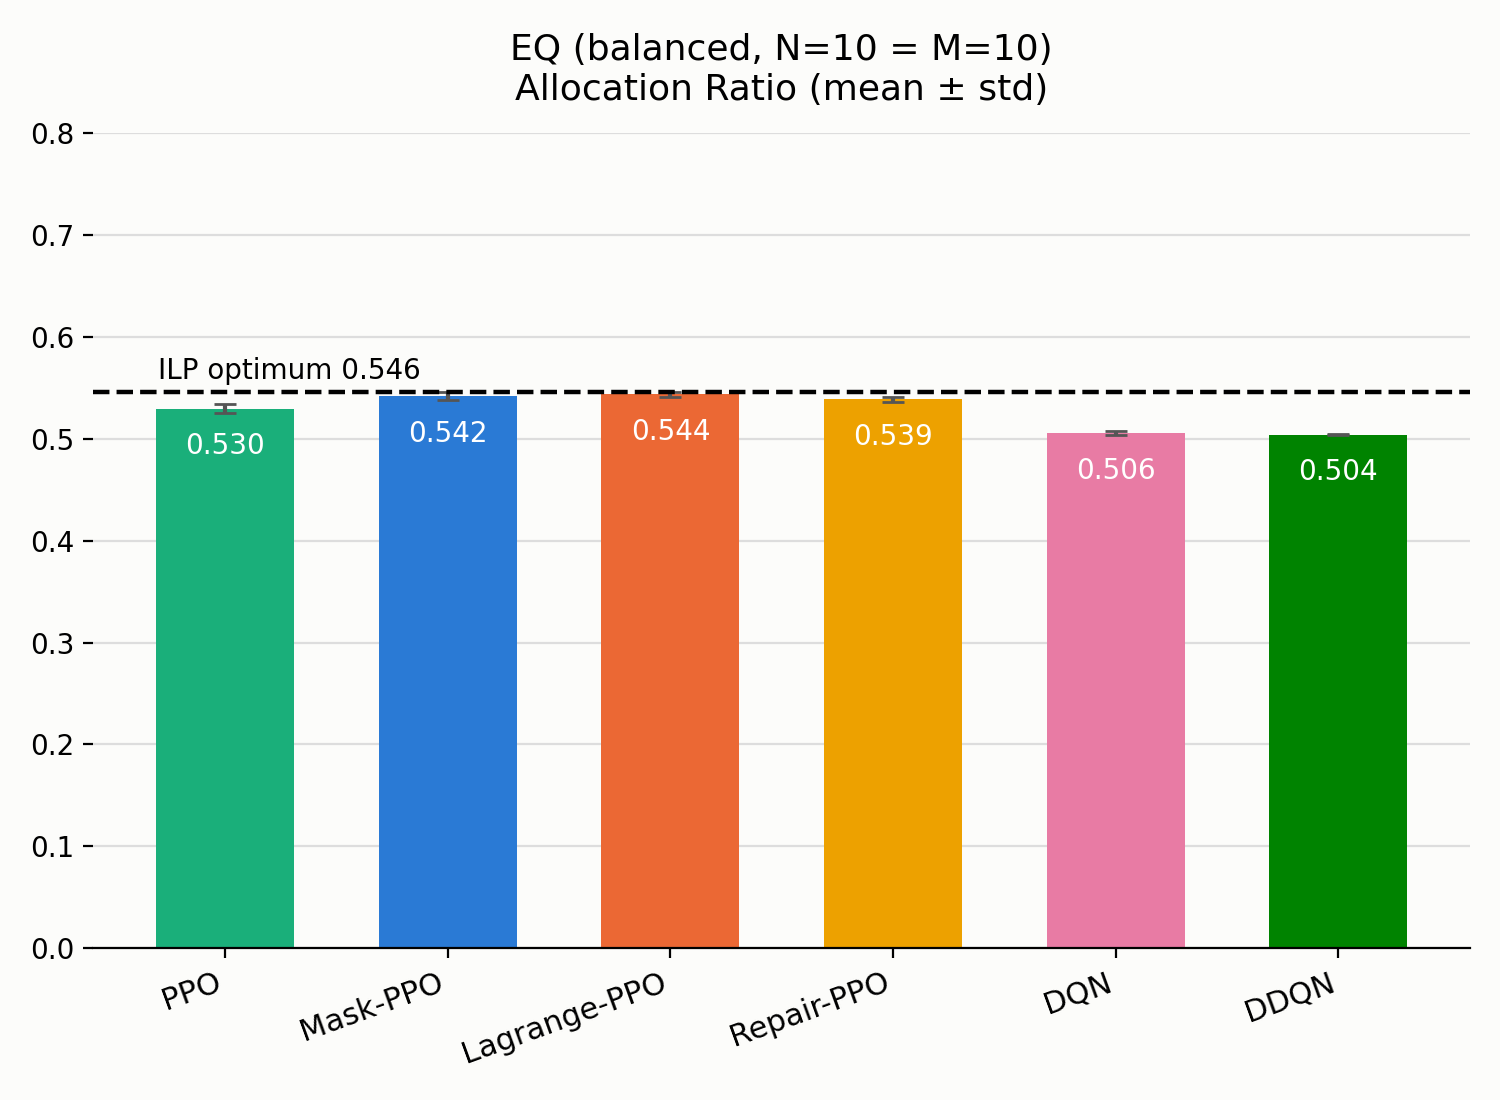
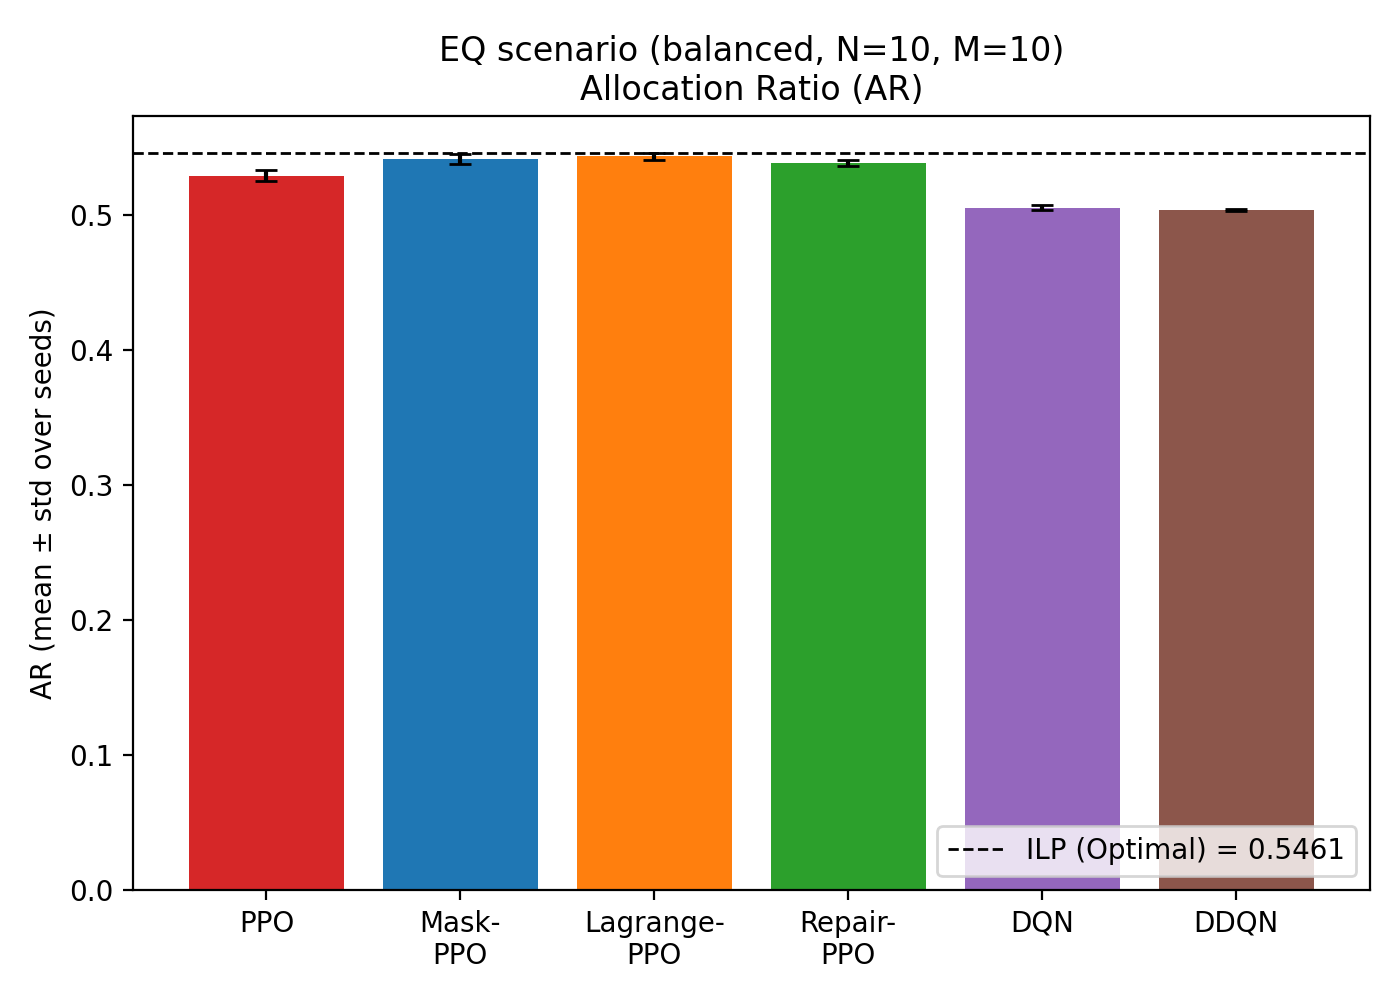
update

diff --git a/paper_contents/v4.2.0/tools/make_figs.py b/paper_contents/v4.2.0/tools/make_figs.py
@@ -1,8 +1,11 @@
 """v4.2.0 figures from ../final_summary_data.json -> ../figs/
 
-  {ar,success,violation}_{lt,eq,gt}.png   one metric per figure
-  timing_{lt,eq,gt}.png                   ILP vs RL time per test instance
-  summary_table.png, timing_table.png
+Visual style follows paper_contents/campaign_5seed_figs/ (matplotlib defaults,
+tab10 colour per algorithm, black capped error bars, percent axes), one metric
+per figure:
+
+  ar_{lt,eq,gt}.png  success_{lt,eq,gt}.png  violation_{lt,eq,gt}.png
+  timing_{lt,eq,gt}.png  summary_table.png  timing_table.png
 
 Usage: python paper_contents/v4.2.0/tools/make_figs.py
 """
@@ -14,55 +17,36 @@ matplotlib.use("Agg")
 import matplotlib.pyplot as plt
 import numpy as np
 
-plt.rcParams["axes.unicode_minus"] = False
-
 PKG = Path(__file__).resolve().parents[1]
 FIGDIR = PKG / "figs"
 FIGDIR.mkdir(exist_ok=True)
 d = json.loads((PKG / "final_summary_data.json").read_text())
 
 ALGO_ORDER = ["ppo", "ppo_mask", "ppo_lagrangian", "ppo_opt", "dqn", "ddqn"]
-DISPLAY = {
-    "ppo_mask": "Mask-PPO",
-    "ppo_lagrangian": "Lagrange-PPO",
-    "ppo": "PPO",
-    "ppo_opt": "Repair-PPO",
-    "dqn": "DQN",
-    "ddqn": "DDQN",
-}
-COLORS = ["#1aaf7a", "#2a7ad5", "#eb6834", "#eda100", "#e87ba4", "#008300"]
+DISPLAY = {"ppo": "PPO", "ppo_mask": "Mask-PPO", "ppo_lagrangian": "Lagrange-PPO",
+           "ppo_opt": "Repair-PPO", "dqn": "DQN", "ddqn": "DDQN"}
+TICK = {"ppo": "PPO", "ppo_mask": "Mask-\nPPO", "ppo_lagrangian": "Lagrange-\nPPO",
+        "ppo_opt": "Repair-\nPPO", "dqn": "DQN", "ddqn": "DDQN"}
+# same colour per algorithm as campaign_5seed_figs
+COLOR = {"ppo_mask": "#1f77b4", "ppo_lagrangian": "#ff7f0e", "ppo_opt": "#2ca02c",
+         "ppo": "#d62728", "dqn": "#9467bd", "ddqn": "#8c564b"}
+CAP_C, CONF_C = "#e07b39", "#3b6fa0"
 SCENARIOS = [
-    ("lt", "LT (resource-scarce, N=10 < M=15)"),
-    ("eq", "EQ (balanced, N=10 = M=10)"),
-    ("gt", "GT (resource-rich, N=15 > M=10)"),
+    ("lt", "LT scenario (resource-scarce, N=10, M=15)"),
+    ("eq", "EQ scenario (balanced, N=10, M=10)"),
+    ("gt", "GT scenario (resource-rich, N=15, M=10)"),
 ]
+NM = {"lt": "N=10,M=15", "eq": "N=10,M=10", "gt": "N=15,M=10"}
+
+x = np.arange(len(ALGO_ORDER))
+labels = [TICK[a] for a in ALGO_ORDER]
+colors = [COLOR[a] for a in ALGO_ORDER]
 
 
-def style(ax):
-    for s in ("top", "right", "left"):
-        ax.spines[s].set_visible(False)
-    ax.grid(axis="y", color="#dddddd", lw=0.8)
-    ax.set_axisbelow(True)
-
-
-def new_fig(title):
-    fig, ax = plt.subplots(figsize=(7.5, 5.5))
-    fig.patch.set_facecolor("#fcfcfa")
-    ax.set_facecolor("#fcfcfa")
-    ax.set_title(title, fontsize=13, pad=12)
-    return fig, ax
-
-
-def finish(fig, ax, x, labels, out, note=None):
-    style(ax)
-    ax.set_xticks(x)
-    ax.set_xticklabels(labels, rotation=20, ha="right", fontsize=11)
-    if note:
-        fig.text(0.5, 0.015, note, ha="center", fontsize=8.5, color="#444444")
-        fig.tight_layout(rect=(0, 0.04, 1, 1))
-    else:
-        fig.tight_layout()
-    fig.savefig(out, dpi=200, facecolor=fig.get_facecolor())
+def save(fig, name):
+    fig.tight_layout()
+    out = FIGDIR / name
+    fig.savefig(out, dpi=200)
     plt.close(fig)
     print("wrote", out)
 
@@ -70,130 +54,134 @@ def finish(fig, ax, x, labels, out, note=None):
 for scen, title in SCENARIOS:
     S = d["scenarios"][scen]
     A = [S["algos"][a] for a in ALGO_ORDER]
-    labels = [DISPLAY[a] for a in ALGO_ORDER]
-    x = np.arange(len(ALGO_ORDER))
 
     # Allocation ratio
-    fig, ax = new_fig(f"{title}\nAllocation Ratio (mean ± std)")
-    ar = [v["ar_mean"] for v in A]
-    ax.bar(x, ar, yerr=[v["ar_std"] for v in A], capsize=4, color=COLORS, width=0.62,
-           error_kw={"ecolor": "#555555"})
-    ax.axhline(S["ilp_ar"], ls="--", color="black", lw=1.6)
-    ax.text(-0.3, S["ilp_ar"] + 0.012, f"ILP optimum {S['ilp_ar']:.3f}", fontsize=10)
-    for xi, m in zip(x, ar):
-        ax.text(xi, m - 0.045, f"{m:.3f}", ha="center", color="white", fontsize=10)
-    ax.set_ylim(0, max(0.8, S["ilp_ar"] + 0.06))
-    finish(fig, ax, x, labels, FIGDIR / f"ar_{scen}.png")
+    fig, ax = plt.subplots(figsize=(7, 5))
+    ax.bar(x, [v["ar_mean"] for v in A], yerr=[v["ar_std"] for v in A], capsize=4, color=colors)
+    ax.axhline(S["ilp_ar"], ls="--", color="black", lw=1, label=f"ILP (Optimal) = {S['ilp_ar']:.4f}")
+    ax.set_xticks(x)
+    ax.set_xticklabels(labels)
+    ax.set_ylabel("AR (mean ± std over seeds)")
+    ax.set_title(f"{title}\nAllocation Ratio (AR)")
+    ax.legend(loc="lower right")
+    save(fig, f"ar_{scen}.png")
 
-    # Success rate
-    fig, ax = new_fig(f"{title}\nSuccess Rate (mean ± std)")
-    sm = [v["success_mean"] for v in A]
-    ss = [v["success_std"] for v in A]
-    ax.bar(x, sm, yerr=ss, capsize=4, color=COLORS, width=0.62, error_kw={"ecolor": "#555555"})
-    for xi, m, sd in zip(x, sm, ss):
-        ax.text(xi, m + sd + 0.03, f"{m:.3f}", ha="center", fontsize=10)
-    ax.set_ylim(0, 1.12)
-    finish(fig, ax, x, labels, FIGDIR / f"success_{scen}.png")
+    # Success rate (%)
+    fig, ax = plt.subplots(figsize=(7, 5))
+    sm = [v["success_mean"] * 100 for v in A]
+    ss = [v["success_std"] * 100 for v in A]
+    ax.bar(x, sm, yerr=ss, capsize=4, color=colors)
+    ax.set_xticks(x)
+    ax.set_xticklabels(labels)
+    ax.set_ylabel("Success rate % (mean ± std over seeds)")
+    ax.set_title(f"{title}\nTest-set Success Rate")
+    ax.set_ylim(0, 105)
+    save(fig, f"success_{scen}.png")
 
-    # Violations
-    fig, ax = new_fig(f"{title}\nFraction of test episodes with ≥1 violation")
-    w = 0.36
-    cap = [v["cap_viol_mean"] for v in A]
-    conf = [v["conflict_viol_mean"] for v in A]
-    ax.bar(x - w / 2, cap, width=w, color="#2a7ad5", label="Capacity violation")
-    ax.bar(x + w / 2, conf, width=w, color="#eb6834", label="Conflict violation")
-    for xi, c, f in zip(x, cap, conf):
-        ax.text(xi - w / 2, c + 0.015, f"{c:.2f}", ha="center", fontsize=8.5)
-        ax.text(xi + w / 2, f + 0.015, f"{f:.2f}", ha="center", fontsize=8.5)
-    ax.set_ylim(0, 1.12)
-    ax.legend(frameon=False, fontsize=10)
-    finish(fig, ax, x, labels, FIGDIR / f"violation_{scen}.png",
-           note="Repair-PPO: 0 by construction (invalid actions are repaired before execution).")
+    # Violations (%)
+    fig, ax = plt.subplots(figsize=(7, 5))
+    w = 0.35
+    ax.bar(x - w / 2, [v["cap_viol_mean"] * 100 for v in A], width=w, color=CAP_C, label="CapViol%")
+    ax.bar(x + w / 2, [v["conflict_viol_mean"] * 100 for v in A], width=w, color=CONF_C, label="ConflictViol%")
+    ax.set_xticks(x)
+    ax.set_xticklabels(labels)
+    top = max([v["cap_viol_mean"] for v in A] + [v["conflict_viol_mean"] for v in A]) * 100
+    ax.set_ylim(0, max(top * 1.35, 10))  # headroom so the legend does not cover bars
+    ax.set_ylabel("Violation rate %")
+    ax.set_title(f"{title}\nTest-set Violation Rates (delivered placement)\n"
+                 "(Repair-PPO is always 0 by construction — repair replaces\n"
+                 "the action before delivery)", fontsize=10)
+    ax.legend(loc="upper left")
+    save(fig, f"violation_{scen}.png")
 
-# ---------- timing_{scen}.png ----------
-for scen, title in SCENARIOS:
-    S = d["scenarios"][scen]
-    names = ["ILP"] + [DISPLAY[a] for a in ALGO_ORDER]
+    # Solve time (ms, log scale)
+    names = ["ILP"] + [TICK[a] for a in ALGO_ORDER]
     ms = [S["ilp_timing_ms"]["ms_mean"]] + [S["algos"][a]["ms_per_episode_mean"] for a in ALGO_ORDER]
     err = [S["ilp_timing_ms"]["ms_std"]] + [S["algos"][a]["ms_per_episode_std"] for a in ALGO_ORDER]
-    x = np.arange(len(names))
-    fig, ax = new_fig(f"{title}\nSolve time per test instance (ms, log scale)")
-    # log axis: clip the lower whisker so it stays visible (ILP std > mean on LT)
-    lower = [min(e, m * 0.6) for m, e in zip(ms, err)]
-    ax.bar(x, ms, yerr=[lower, err], capsize=4, color=["#555555"] + COLORS, width=0.62,
-           error_kw={"ecolor": "#333333"})
+    lower = [min(e, m * 0.6) for m, e in zip(ms, err)]  # keep lower whisker visible on log axis
+    xt = np.arange(len(names))
+    fig, ax = plt.subplots(figsize=(7.5, 5))
+    ax.bar(xt, ms, yerr=[lower, err], capsize=4, color=["#7f7f7f"] + colors)
     ax.set_yscale("log")
-    for xi, m, e in zip(x, ms, err):
-        ax.text(xi, (m + e) * 1.15, f"{m:.1f}", ha="center", fontsize=10)
+    for xi, m, e in zip(xt, ms, err):
+        ax.text(xi, (m + e) * 1.12, f"{m:.1f}", ha="center", fontsize=9)
     ax.set_ylim(1, max(m + e for m, e in zip(ms, err)) * 4)
-    finish(fig, ax, x, names, FIGDIR / f"timing_{scen}.png",
-           note="ILP: mean ± std over 400 test instances. RL: mean over seeds (± std across seeds); 1 CPU thread.")
+    ax.set_xticks(xt)
+    ax.set_xticklabels(names)
+    ax.set_ylabel("Time per test instance (ms, log scale)")
+    ax.set_title(f"{title}\nSolve Time: ILP vs RL (1 CPU thread)")
+    save(fig, f"timing_{scen}.png")
+
+
+def styled_table(rows, col_labels, highlight, title, name, figsize, col_widths=None):
+    fig, ax = plt.subplots(figsize=figsize)
+    ax.axis("off")
+    ax.set_title(title, fontsize=13, pad=20)
+    table = ax.table(cellText=rows, colLabels=col_labels, cellLoc="center", loc="center",
+                     colWidths=col_widths)
+    table.auto_set_font_size(False)
+    table.set_fontsize(11)
+    table.scale(1, 2.0)
+    for j in range(len(col_labels)):
+        table[(0, j)].set_facecolor("#c9d6ea")
+        table[(0, j)].set_text_props(fontweight="bold")
+    for i, hl in enumerate(highlight, start=1):
+        for j in range(len(col_labels)):
+            table[(i, j)].set_facecolor("#fdf1c7" if hl else "white")
+            if hl:
+                table[(i, j)].set_text_props(fontweight="bold")
+    fig.tight_layout()
+    out = FIGDIR / name
+    fig.savefig(out, dpi=150, bbox_inches="tight")
+    plt.close(fig)
+    print("wrote", out)
+
+
+# ---------- summary_table.png ----------
+rows, hl = [], []
+for scen, _ in SCENARIOS:
+    S = d["scenarios"][scen]
+    rows.append([f"{scen.upper()}\n({NM[scen]})", "ILP (Optimal)", f"{S['ilp_ar']:.4f}", "100.0",
+                 "0.00", "0.00", "—", "—"])
+    hl.append(True)
+    for a in ALGO_ORDER:
+        v = S["algos"][a]
+        trig = (f"{v['repair_trigger_cap_mean'] * 100:.2f} / {v['repair_trigger_conflict_mean'] * 100:.2f}"
+                if "repair_trigger_cap_mean" in v else "—")
+        rows.append(["", DISPLAY[a], f"{v['ar_mean']:.4f}±{v['ar_std']:.4f}",
+                     f"{v['success_mean'] * 100:.1f}±{v['success_std'] * 100:.1f}",
+                     f"{v['cap_viol_mean'] * 100:.2f}", f"{v['conflict_viol_mean'] * 100:.2f}",
+                     trig, str(v["n_seeds"])])
+        hl.append(False)
+styled_table(
+    rows,
+    ["Scenario", "Algorithm", "AR (mean±std)", "Success%\n(mean±std)", "CapViol%", "ConflictViol%",
+     "Repair trigger %\n(cap / conflict)", "Seeds"],
+    hl,
+    "v4.2.0 — test-set results (5M steps, single deterministic pass per test instance)\n"
+    "CapViol% / ConflictViol% = violation present in the DELIVERED placement, same definition for every algorithm\n"
+    "(ILP AR: seed-1 test set)",
+    "summary_table.png", (20, 12.5),
+    [0.09, 0.14, 0.14, 0.12, 0.1, 0.11, 0.16, 0.07])
 
 # ---------- timing_table.png ----------
-t_rows = []
+rows, hl = [], []
 for scen, _ in SCENARIOS:
     S = d["scenarios"][scen]
     il = S["ilp_timing_ms"]
-    t_rows.append([scen.upper(), "ILP (Dinkelbach + CBC)", f"{il['ms_mean']:.1f} ± {il['ms_std']:.1f}", "—", "1.0×"])
+    rows.append([f"{scen.upper()}\n({NM[scen]})", "ILP (Dinkelbach + CBC)",
+                 f"{il['ms_mean']:.1f}±{il['ms_std']:.1f}", "—", "1.0×"])
+    hl.append(True)
     for a in ALGO_ORDER:
         v = S["algos"][a]
-        t_rows.append([scen.upper(), DISPLAY[a], f"{v['ms_per_episode_mean']:.2f} ± {v['ms_per_episode_std']:.2f}",
-                       f"{v['ms_per_decision_mean']:.2f}", f"{il['ms_mean'] / v['ms_per_episode_mean']:.1f}×"])
-t_labels = ["Scenario", "Method", "Time per instance (ms)", "Time per decision (ms)", "Speed-up vs ILP"]
-fig, ax = plt.subplots(figsize=(13, 0.42 * (len(t_rows) + 1) + 1.0))
-fig.patch.set_facecolor("#fcfcfa")
-ax.axis("off")
-ax.set_title("Solve time: ILP vs RL (3 scenarios)", fontsize=15, pad=10)
-table = ax.table(cellText=t_rows, colLabels=t_labels, cellLoc="center", loc="upper center",
-                 colWidths=[0.1, 0.25, 0.22, 0.22, 0.18])
-table.auto_set_font_size(False)
-table.set_fontsize(12)
-table.scale(1, 1.8)
-for (i, j), cell in table.get_celld().items():
-    cell.set_edgecolor("#dddddd")
-    if i == 0:
-        cell.set_facecolor("#eef1f7")
-        cell.set_text_props(fontweight="bold")
-    elif ((i - 1) // 7) % 2 == 1:
-        cell.set_facecolor("#f7f7f4")
-fig.tight_layout()
-out = FIGDIR / "timing_table.png"
-fig.savefig(out, dpi=150, bbox_inches="tight", facecolor=fig.get_facecolor())
-plt.close(fig)
-print("wrote", out)
-
-# ---------- summary_table.png ----------
-col_labels = ["Scenario", "Algorithm", "AR (mean ± std)", "Success rate", "Cap. viol.", "Conflict viol.",
-              "Repair trigger (cap. / conflict)", "Seeds"]
-rows = []
-for scen, _ in SCENARIOS:
-    for a in ALGO_ORDER:
-        v = d["scenarios"][scen]["algos"][a]
-        rows.append([scen.upper(), DISPLAY[a], f"{v['ar_mean']:.4f}±{v['ar_std']:.4f}",
-                     f"{v['success_mean']:.4f}±{v['success_std']:.4f}",
-                     f"{v['cap_viol_mean']:.4f}", f"{v['conflict_viol_mean']:.4f}",
-                     (f"{v['repair_trigger_cap_mean']:.4f} / {v['repair_trigger_conflict_mean']:.4f}"
-                      if "repair_trigger_cap_mean" in v else "—"),
-                     str(v["n_seeds"])])
-
-fig, ax = plt.subplots(figsize=(19, 0.42 * (len(rows) + 1) + 1.0))
-fig.patch.set_facecolor("#fcfcfa")
-ax.axis("off")
-ax.set_title("Test-set results, v4.2.0 (3 scenarios × 6 algorithms)", fontsize=15, pad=10)
-table = ax.table(cellText=rows, colLabels=col_labels, cellLoc="center", loc="upper center",
-                 colWidths=[0.08, 0.13, 0.15, 0.15, 0.10, 0.11, 0.20, 0.08])
-table.auto_set_font_size(False)
-table.set_fontsize(12)
-table.scale(1, 1.8)
-for (i, j), cell in table.get_celld().items():
-    cell.set_edgecolor("#dddddd")
-    if i == 0:
-        cell.set_facecolor("#eef1f7")
-        cell.set_text_props(fontweight="bold")
-    elif ((i - 1) // 6) % 2 == 1:
-        cell.set_facecolor("#f7f7f4")
-fig.tight_layout()
-out = FIGDIR / "summary_table.png"
-fig.savefig(out, dpi=150, bbox_inches="tight", facecolor=fig.get_facecolor())
-plt.close(fig)
-print("wrote", out)
+        rows.append(["", DISPLAY[a], f"{v['ms_per_episode_mean']:.2f}±{v['ms_per_episode_std']:.2f}",
+                     f"{v['ms_per_decision_mean']:.2f}", f"{il['ms_mean'] / v['ms_per_episode_mean']:.1f}×"])
+        hl.append(False)
+styled_table(
+    rows,
+    ["Scenario", "Method", "Time per instance\n(ms, mean±std)", "Time per decision\n(ms)", "Speed-up\nvs ILP"],
+    hl,
+    "v4.2.0 — solve time per test instance (1 CPU thread)\n"
+    "ILP: mean±std over 400 test instances; RL: mean±std across seeds (each seed averaged over its 400 test instances)",
+    "timing_table.png", (14, 12.5),
+    [0.14, 0.26, 0.22, 0.2, 0.15])
